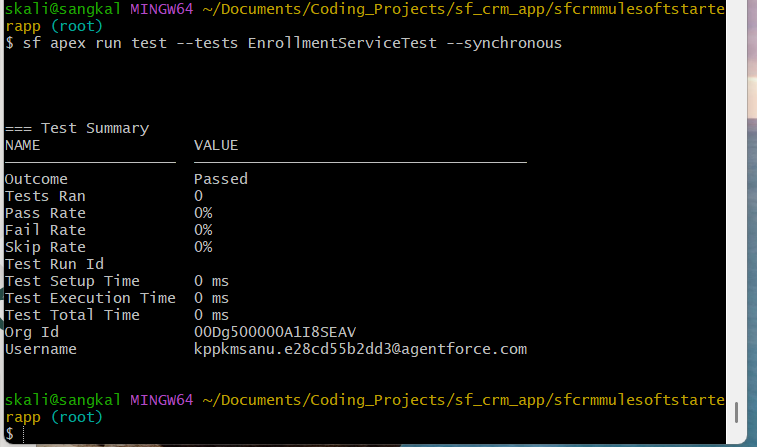
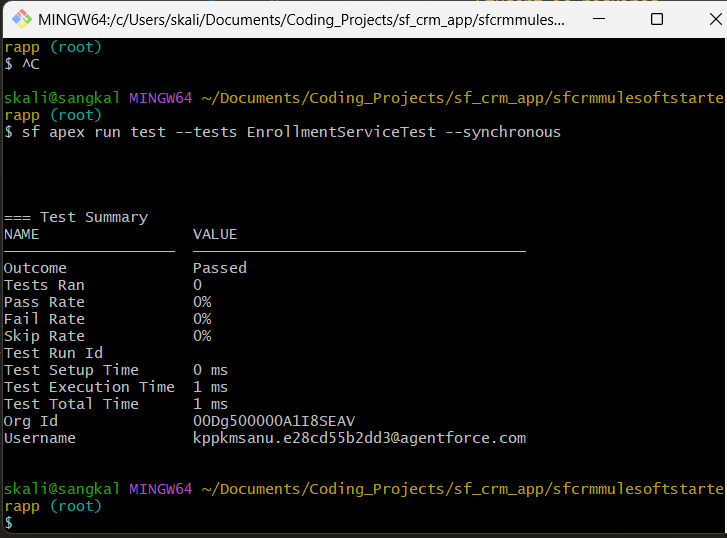
Fixing readme to test images not classes

Changed region(s): [[0.0, 0.0, 1.0, 1.0], [0.6355, 0.2327, 0.7868, 0.2617], [0.2421, 0.2908, 0.3329, 0.349]]

diff --git a/README.md b/README.md
@@ -92,14 +92,14 @@ force-app/
 ### Salesforce App
 ![App](screenshots/ObjectManager.png)
 
-### Student Service
-![Student](screenshots/Student_service.png)
+### Student Test Service
+![Student](screenshots/student_service_test.png)
 
-### Enrollment Service
-![Enrollment](screenshots/enrollment_service.png)
+### Enrollment Test Service
+![Enrollment](screenshots/EnrollmentServiceTest.png)
 
-### Course Service
-![Course](screenshots/courseService.png)
+### Course Test Service
+![Course](screenshots/courseServiceTest.png)
 
 ### Flow Automation
 ![Flow](screenshots/flow_1.png)
